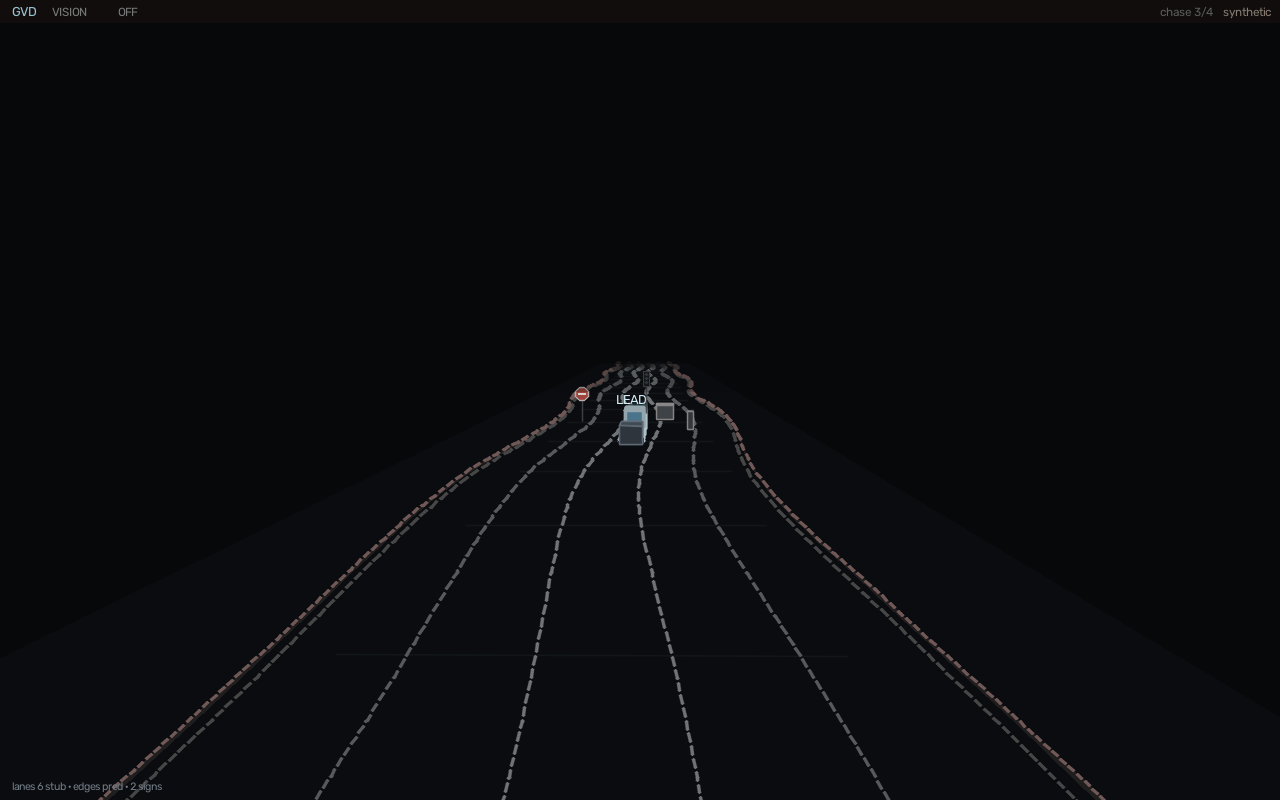
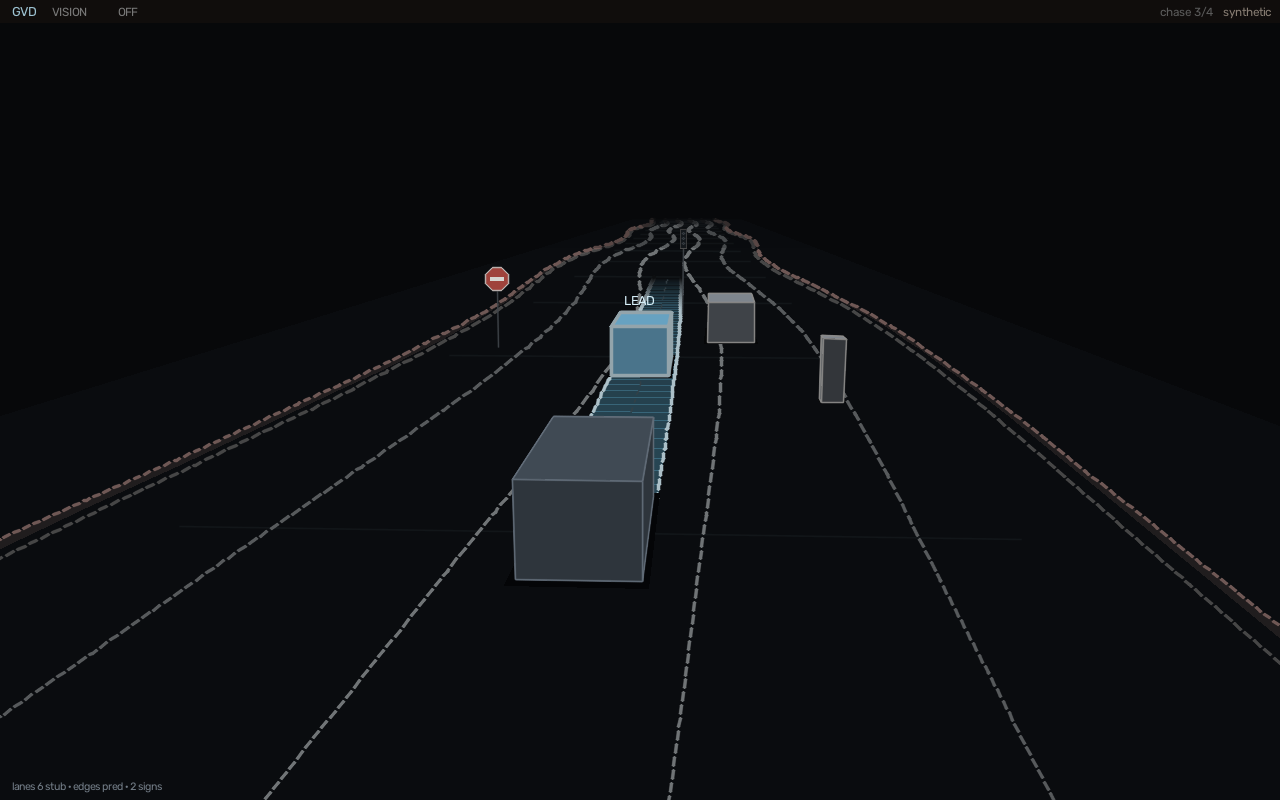
viz: keep the chase camera just behind the ego
The longer draw span stays. The lens goes back to the old chase seat
at (1.6, -16.5, 5.4), looking toward y=16.

diff --git a/scripts/test_gvd_viz_stage.py b/scripts/test_gvd_viz_stage.py
@@ -510,11 +510,24 @@ def main() -> None:
     span_cam = Cam()
     assert abs(span_cam.ahead_m - draw.ahead_m) < 1e-6
     assert abs(span_cam.behind_m - draw.behind_m) < 1e-6
-    assert abs(span_cam.eye[1] - (-(draw.behind_m + 8.0))) < 1e-6
+    # Chase stays just behind the ego. Draw range does not drag the lens back.
+    assert abs(span_cam.eye[0] - 1.6) < 1e-6
+    assert abs(span_cam.eye[1] - (-16.5)) < 1e-6
+    assert abs(span_cam.eye[2] - 5.4) < 1e-6
 
     import tempfile
 
-    from python.viz.stage import smoke
+    from python.viz.stage import _extend_predicted, _span_ys, smoke
+
+    span_ys = _span_ys(-draw.behind_m, draw.ahead_m, 3.0)
+    assert span_ys[0] <= -draw.behind_min_m and span_ys[-1] >= draw.ahead_min_m
+    ext_pieces = _extend_predicted(
+        [{"x": -1.8, "y": float(y)} for y in range(2, 36, 3)],
+        -draw.behind_m,
+        draw.ahead_m,
+    )
+    ext_ys = [p["y"] for piece in ext_pieces for p in piece]
+    assert ext_ys and min(ext_ys) <= -draw.behind_min_m and max(ext_ys) >= draw.ahead_min_m
 
     smoke_path = Path(tempfile.mkdtemp()) / "cabin_span.png"
     smoke(use_perception=False, engaged=False, write_bus=False, out=smoke_path)
@@ -531,9 +544,8 @@ def main() -> None:
         pix = cabin_span[py, px]
         return int(pix[0]), int(pix[1]), int(pix[2])
 
-    for gy in (draw.ahead_min_m, -draw.behind_min_m):
-        # 70 and -18 sit off the 20 m ticks. 80 and -20 are on a tick, still ground.
-        sample_y = 70.0 if gy > 0 else -18.0
+    # 70 is ahead of the car. -6 is behind the rear bumper and still in the chase frame.
+    for sample_y in (70.0, -6.0):
         gb, gg, gr = _ground_at(sample_y)
         assert max(gb, gg, gr) >= 13, (sample_y, gb, gg, gr)
 
@@ -546,7 +558,7 @@ def main() -> None:
         return int(patch.max()) > 40
 
     assert any(_lane_lit(y) for y in (72.0, 76.0, 80.0, 84.0, 88.0)), "stub lanes must reach ahead_min"
-    assert any(_lane_lit(y) for y in (-28.0, -24.0, -20.0, -16.0, -12.0)), "stub lanes must reach behind_min"
+    assert any(_lane_lit(y) for y in (-6.0, -4.0, -2.0)), "stub lanes must show behind the ego"
 
     # A short live poly is dashed out to the cabin span and is not relabeled in state.
     short = {
@@ -590,7 +602,7 @@ def main() -> None:
 
     assert _ext_hit(20.0) > 0, "detected paint still strokes"
     assert any(_ext_hit(y) > 0 for y in (72.0, 80.0, 88.0)), "predicted dash reaches ahead"
-    assert any(_ext_hit(y) > 0 for y in (-28.0, -20.0, -12.0)), "predicted dash reaches behind"
+    assert any(_ext_hit(y) > 0 for y in (-6.0, -4.0, -2.0)), "predicted dash shows behind the ego"
 
     # Under 8 Hz the lane stroke and the ribbon stay. Signs drop.
     slow = dict(short)

diff --git a/python/viz/stage.py b/python/viz/stage.py
@@ -380,16 +380,15 @@ class Cam:
     def eye(self) -> tuple[float, float, float]:
         if self.top_down:
             return (0.0, -8.0, 40.0)
-        # Chase 3/4. Sit just behind the behind-span so the road past the rear bumper stays in frame.
-        z = 5.4 + min(3.2, max(0.0, self.behind_m) * 0.04)
-        return (1.6, -(self.behind_m + 8.0), z)
+        # Chase 3/4, just behind the ego. Draw range is longer; the lens stays here.
+        return (1.6, -16.5, 5.4)
 
     def project(self, x: float, y: float, z: float = 0.0) -> tuple[int, int]:
         if self.top_down:
             cx, cy = STAGE_W // 2, STAGE_H - 90
             return int(cx + x * self.ppm), int(cy - y * self.ppm)
         cam = np.array(self.eye, dtype=np.float64)
-        target = np.array([0.0, 0.25 * self.ahead_m, -0.8], dtype=np.float64)
+        target = np.array([0.0, 16.0, -0.8], dtype=np.float64)
         eye = np.array([x, y, z], dtype=np.float64) - cam
         forward = target - cam
         forward = forward / (np.linalg.norm(forward) + 1e-9)
@@ -781,8 +780,20 @@ def _stroke_world(
         )
 
 
+def _draw_y_lo(cam: Cam) -> float:
+    """Near end of the draw span that this camera can actually see.
+
+    Chase sits just behind the ego, so points behind the lens are not stroked.
+    Top-down still paints the full behind span.
+    """
+    span = -float(cam.behind_m)
+    if cam.top_down:
+        return span
+    return max(span, float(cam.eye[1]) + 1.5)
+
+
 def _draw_ground(img: np.ndarray, cam: Cam) -> None:
-    y0, y1 = -cam.behind_m, cam.ahead_m
+    y0, y1 = _draw_y_lo(cam), cam.ahead_m
     far_l, far_r = cam.project(-16, y1, 0), cam.project(16, y1, 0)
     near_l, near_r = cam.project(-16, y0, 0), cam.project(16, y0, 0)
     overlay = img.copy()
@@ -816,7 +827,7 @@ def _lane_color(mode: str, fade: float) -> tuple[tuple[int, int, int], int, bool
 
 
 def _draw_lanes(img: np.ndarray, lanes: list, cam: Cam, *, smoke: bool) -> None:
-    y_lo, y_hi = -cam.behind_m, cam.ahead_m
+    y_lo, y_hi = _draw_y_lo(cam), cam.ahead_m
     for ln in lanes or []:
         kind = ln.get("kind") if isinstance(ln, dict) else None
         mode = lane_draw_mode(kind, smoke=smoke)
@@ -865,7 +876,7 @@ def _draw_edge_piece(
 
 
 def _draw_edges(img: np.ndarray, edges: list, cam: Cam) -> None:
-    y_lo, y_hi = -cam.behind_m, cam.ahead_m
+    y_lo, y_hi = _draw_y_lo(cam), cam.ahead_m
     fade_y = cam.ahead_m * (1.0 - cam.fade_frac) if cam.fade_frac > 0 else cam.ahead_m
     for e in edges or []:
         raw = _clip_poly_y(_poly_points(e), y_lo, y_hi)
